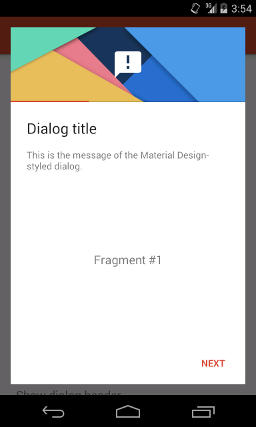
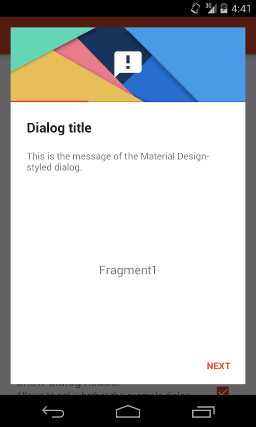
Updated readme and screenshots.

diff --git a/README.md b/README.md
@@ -38,12 +38,26 @@ Before version 2.0.0 this project was hosted on [Sourceforge](https://sourceforg
 
 ## Examples
 
+### Creating a theme for the dialogs
+
+This library comes with a built-in dark and light theme for the dialogs it provides. By default the dark theme is used. It can be referenced by using the resource id `@style/MaterialDialog` (or the id `R.style.MaterialDialog` when referencing it in Java code). The light theme can be referenced using the resource id `@style/MaterialDialog.Light` or `R.style.MaterialDialog_Light` respectively. In order to use one of the predefined themes when creating a dialog, the id of the theme has to be passed to the constructor of the builder `MaterialDialog.Builder` (or another builder provided by the library) like shown in the examples below.
+
+However, it might be useful to extend the predefined themes in order to overwrite some theme attributes. One common use-case is to overwrite the theme attribute `colorAccent`, which specifies the default text color of a dialog's buttons. In such case a new style resource, which extends one of the built-in themes, must be added to your app's `res/values/styles.xml` file. Such a style may look like follows:
+
+```xml
+<style name="CustomLightTheme" parent="@style/MaterialDialog.Light">
+    <item name="colorAccent">@color/color_accent</item>
+</style>
+```
+
+Once a custom style has been created, its resource id can be passed to the constructor of the builder, which is used to create dialog instances, in order to use it.
+
 ### Creating a typical alert dialog
 
 The code below shows how to create and show an alert dialog by using the library's `MaterialDialog.Builder`. The dialog contains a title and message and can be closed by the user by either using a "OK" button or a "Cancel" button. The `this` parameter, which is passed to the builder's constructor in the example below, must be a `Context`, e.g. an `Activity`. The `null` parameters, which are passed to the `setPositiveButton`- and `setNegativeButton`-methods can be replaced by instances of the type `DialogInterface.OnClickListener` in order to execute some code when the user closes the dialog by clicking the corresponding button. As the methods of the class `MaterialDialog.Builder`, which is provided by this library, are nearly identical to the API of the Android SDK's class [`AlertDialog.Builder`](http://developer.android.com/reference/android/app/AlertDialog.Builder.html), the practices, which are described in [this](http://developer.android.com/guide/topics/ui/dialogs.html#AlertDialog) section of the Android developer guide, do also work together with this library.
 
 ```java
-MaterialDialog.Builder dialogBuilder = new MaterialDialog.Builder(this); 
+MaterialDialog.Builder dialogBuilder = new MaterialDialog.Builder(this, R.style.MaterialDialog_Light); 
 dialogBuilder.setTitle(R.string.dialog_title); 
 dialogBuilder.setMessage(R.string.dialog_message); 
 dialogBuilder.setTitle(R.string.dialog_title); 
@@ -68,7 +82,7 @@ dialogBuilder.setHeaderIcon(R.drawable.header_icon);
 The following source code shows how a progress dialog, which displays a circular progress bar, can be created. Such like a regular `MaterialDialog`, such a dialog can contain a title, a message and up to three buttons. By using the `setProgressBarPosition`-method, the position of the dialog's progress bar can be specified. Possible values are `LEFT`, `TOP`, `RIGHT` and `BOTTOM`, each specifying the position relative to the dialog's message.
 
 ```java
-ProgressDialog.Builder dialogBuilder = new ProgressDialog.Builder(this); 
+ProgressDialog.Builder dialogBuilder = new ProgressDialog.Builder(this, R.style.MaterialDialog_Light); 
 dialogBuilder.setTitle(R.string.dialog_title); 
 dialogBuilder.setMessage(R.string.dialog_message); 
 dialogBuilder.setPositiveButton(android.R.string.ok, null); 
@@ -83,7 +97,7 @@ dialog.show();
 A `WizardDialog` allows to show multiple fragments and provides a navigation to switch between them, either via tabs or via buttons at the bottom of the dialog. The source code below shows how such a dialog can be created. The tabs, which indicate the currently selected fragment, are shown in the dialog's header if possible. This behavior can be customized by using the `setTabPosition`-method. If the value `USE_HEADER` is passed to the method, the tabs are shown in the header, if the dialog does neither contain a title, nor a message. The default value `PREFER_HEADER` causes the tabs to be shown in the header regardless of any title or message are shown. And the value `NO_HEADER` prevents the tabs from being shown in the header at all.
 
 ```java
-WizardDialog.Builder dialogBuilder = new WizardDialog.Builder(this); 
+WizardDialog.Builder dialogBuilder = new WizardDialog.Builder(this, R.style.MaterialDialog_Light); 
 dialogBuilder.showHeader(true); 
 dialogBuilder.setHeaderBackground(R.drawable.header_background); 
 dialogBuilder.showButtonBar(android.R.string.ok, true); 
